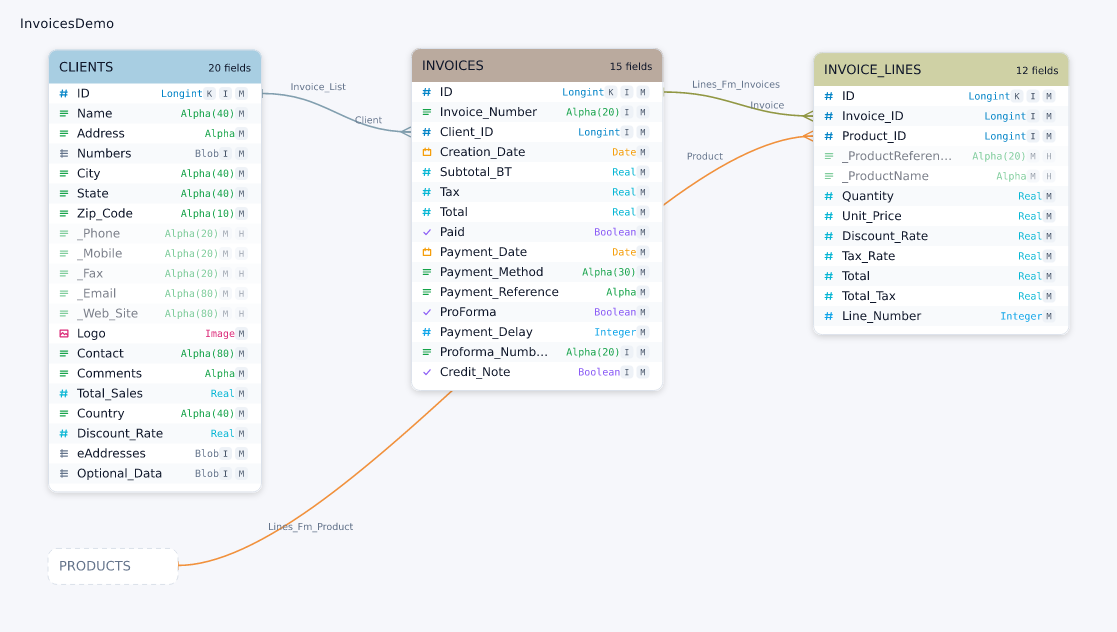
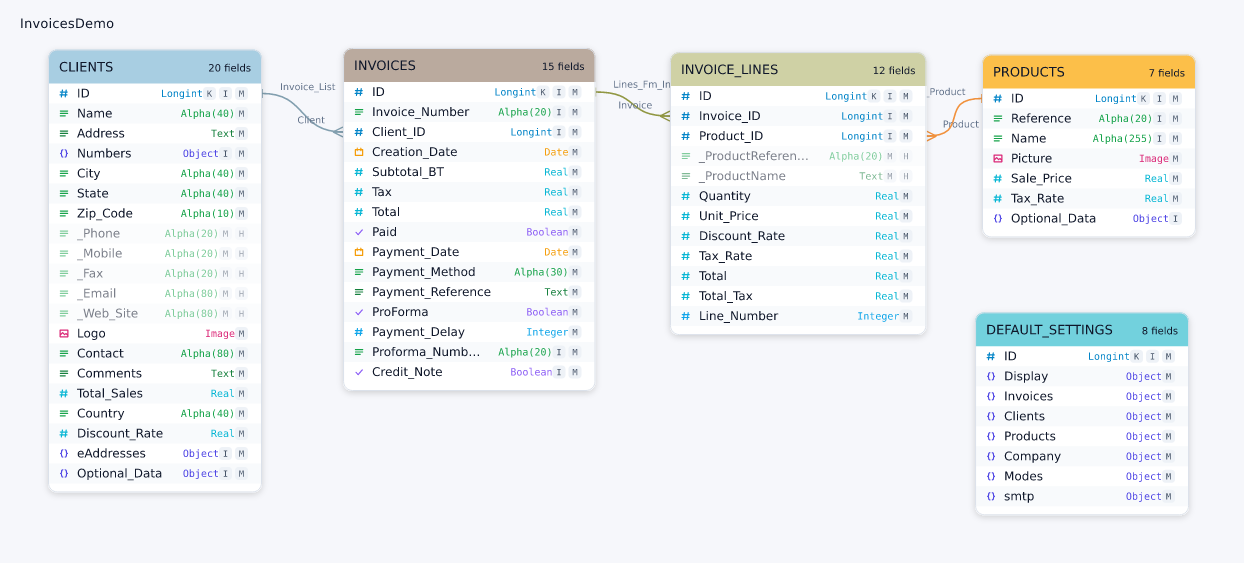
Fix field type names: Object was shown as Blob, Text as Alpha (#3)
The type table was built from references/structure-to-sql.xml, which
maps type 21 to BLOB. That transform describes *SQL storage*, not the
type name: an object field is stored as a BLOB (or TEXT with $with_json)
but 4D presents it as Object. The authority for presentation is
references/structure_to_html.xml, which labels 21 as Object.

The same mistake hid a second bug. Codes 10, 14 and 17 are all string
fields and the code alone does not name the type - 4D shows Alpha when
the field carries a length limit and Text when it does not. The table
hardcoded 10 and 14 to Alpha and 17 to Text, so the four unlimited
string fields in the demo catalog (Address, Comments, Payment_Reference,
_ProductName) were labelled Alpha instead of Text.

Type resolution now goes through Field, which canonicalises the code
against limiting_length before looking it up, so the label, colour and
glyph can never disagree. Object gets its own indigo {} glyph rather
than borrowing the Blob stripes.

Adds regression tests asserting both rules against the real reference
catalog; all three fail against the previous table. Regenerates
docs/example.png, which showed the wrong labels, and records the command
that produces it.

diff --git a/tests/integration.rs b/tests/integration.rs
@@ -827,3 +827,66 @@ fn html_ships_the_deep_link_and_minimap_machinery() {
     // Rows must be addressable by field name for `#TABLE.FIELD` to work.
     assert!(html.contains(r#"data-field="Invoice_Number""#));
 }
+
+/// 4D's own `structure_to_html.xml` transform is the authority on how a field
+/// type is *presented*. Type 21 is `Object`; it maps to `BLOB` only in
+/// `structure-to-sql.xml`, which describes SQL storage, not the type name.
+#[test]
+fn object_fields_are_labelled_object_not_blob() {
+    let catalog = invoices();
+    let numbers = catalog
+        .tables
+        .iter()
+        .find(|t| t.name == "CLIENTS")
+        .unwrap()
+        .fields
+        .iter()
+        .find(|f| f.name == "Numbers")
+        .unwrap();
+
+    assert_eq!(numbers.type_code, 21);
+    assert_eq!(numbers.type_label(), "Object");
+
+    // And nowhere in the catalog does a type 21 field claim to be a Blob.
+    let mislabelled: Vec<_> = catalog
+        .tables
+        .iter()
+        .flat_map(|t| &t.fields)
+        .filter(|f| f.type_code == 21 && f.type_label() != "Object")
+        .map(|f| f.name.clone())
+        .collect();
+    assert!(mislabelled.is_empty(), "mislabelled: {mislabelled:?}");
+}
+
+/// Codes 10, 14 and 17 are all "string". 4D shows `Alpha` when the field
+/// carries a length limit and `Text` when it does not, so the code alone is
+/// not enough to name the type.
+#[test]
+fn string_fields_are_alpha_only_when_length_limited() {
+    let catalog = invoices();
+    let clients = catalog.tables.iter().find(|t| t.name == "CLIENTS").unwrap();
+    let field = |name: &str| clients.fields.iter().find(|f| f.name == name).unwrap();
+
+    let limited = field("Name");
+    assert_eq!(limited.type_code, 10);
+    assert_eq!(limited.limiting_length, Some(40));
+    assert_eq!(limited.type_label(), "Alpha");
+
+    let unlimited = field("Address");
+    assert_eq!(unlimited.type_code, 10);
+    assert_eq!(unlimited.limiting_length, None);
+    assert_eq!(unlimited.type_label(), "Text");
+}
+
+/// The text exports carry the same corrected labels as the diagram.
+#[test]
+fn exports_use_the_display_type_names() {
+    let catalog = invoices();
+    let selection = select::select(&catalog, &spec()).unwrap();
+    let mmd = catalog_diagram::export::mermaid(&catalog, &selection, false);
+
+    assert!(mmd.contains("Object Numbers"), "{mmd}");
+    assert!(mmd.contains("Text Address"), "{mmd}");
+    assert!(mmd.contains("Alpha Name"), "{mmd}");
+    assert!(!mmd.contains("Blob Numbers"), "{mmd}");
+}

diff --git a/src/types.rs b/src/types.rs
@@ -24,7 +24,7 @@ pub const TYPES: &[(i64, &str, &str, Glyph)] = &[
     (14, "Alpha", "#16a34a", Glyph::Text),
     (17, "Text", "#15803d", Glyph::Text),
     (18, "Blob", "#64748b", Glyph::Blob),
-    (21, "Blob", "#64748b", Glyph::Blob),
+    (21, "Object", "#4f46e5", Glyph::Object),
 ];
 
 pub const UNKNOWN_COLOR: &str = "#94a3b8";
@@ -38,7 +38,28 @@ pub enum Glyph {
     Text,
     Blob,
     Image,
+    Object,
     Unknown,
+}
+
+/// 4D stores every string field under one of these codes. The *displayed* type
+/// is not implied by the code alone: 4D shows `Alpha` when the field carries a
+/// length limit and `Text` when it does not. See the `$type=10 or $type=14 or
+/// $type=17` branch of `structure_to_html.xml` in `references/`.
+const STRING_CODES: &[i64] = &[10, 14, 17];
+const ALPHA_CODE: i64 = 10;
+const TEXT_CODE: i64 = 17;
+
+/// Collapses a raw code plus its length limit into the code whose row in
+/// [`TYPES`] describes how 4D actually presents the field.
+pub fn canonical_code(code: i64, limiting_length: Option<i64>) -> i64 {
+    if !STRING_CODES.contains(&code) {
+        return code;
+    }
+    match limiting_length {
+        Some(len) if len > 0 => ALPHA_CODE,
+        _ => TEXT_CODE,
+    }
 }
 
 pub fn type_label(code: i64) -> String {
@@ -73,6 +94,33 @@ mod tests {
     fn known_codes_resolve() {
         assert_eq!(type_label(4), "Longint");
         assert_eq!(type_label(17), "Text");
+    }
+
+    #[test]
+    fn object_is_not_a_blob() {
+        // 21 is `Object`. It becomes a BLOB only in the SQL mapping, which
+        // describes storage rather than the type shown to the user.
+        assert_eq!(type_label(21), "Object");
+        assert_eq!(type_glyph(21), Glyph::Object);
+        assert_ne!(type_color(21), type_color(18));
+    }
+
+    #[test]
+    fn string_codes_resolve_by_length_limit() {
+        for code in [10, 14, 17] {
+            assert_eq!(type_label(canonical_code(code, Some(40))), "Alpha");
+            assert_eq!(type_label(canonical_code(code, None)), "Text");
+            // A limit of zero means "no limit", same as the attribute being absent.
+            assert_eq!(type_label(canonical_code(code, Some(0))), "Text");
+        }
+    }
+
+    #[test]
+    fn non_string_codes_ignore_the_length_limit() {
+        for code in [1, 4, 11, 18, 21, 999] {
+            assert_eq!(canonical_code(code, Some(40)), code);
+            assert_eq!(canonical_code(code, None), code);
+        }
     }
 
     #[test]

diff --git a/src/scene.rs b/src/scene.rs
@@ -440,8 +440,8 @@ fn shape_for_table(
                     false,
                 ),
                 type_label: type_text,
-                type_color: types::type_color(field.type_code).to_string(),
-                glyph: glyph_name(field.type_code),
+                type_color: field.type_color().to_string(),
+                glyph: glyph_name(field.type_glyph()),
                 badges,
                 hidden: field.hidden,
                 tip: field.tip.clone(),
@@ -488,8 +488,8 @@ fn badges_for(field: &crate::model::Field) -> Vec<Badge> {
     badges
 }
 
-fn glyph_name(type_code: i64) -> &'static str {
-    match types::type_glyph(type_code) {
+fn glyph_name(glyph: types::Glyph) -> &'static str {
+    match glyph {
         types::Glyph::Boolean => "boolean",
         types::Glyph::Number => "number",
         types::Glyph::Date => "date",
@@ -497,6 +497,7 @@ fn glyph_name(type_code: i64) -> &'static str {
         types::Glyph::Text => "text",
         types::Glyph::Blob => "blob",
         types::Glyph::Image => "image",
+        types::Glyph::Object => "object",
         types::Glyph::Unknown => "unknown",
     }
 }

diff --git a/src/model.rs b/src/model.rs
@@ -80,8 +80,22 @@ pub struct Field {
 }
 
 impl Field {
+    /// The code as 4D presents it, which for string fields depends on whether
+    /// a length limit is set.
+    fn display_code(&self) -> i64 {
+        crate::types::canonical_code(self.type_code, self.limiting_length)
+    }
+
     pub fn type_label(&self) -> String {
-        crate::types::type_label(self.type_code)
+        crate::types::type_label(self.display_code())
+    }
+
+    pub fn type_color(&self) -> &'static str {
+        crate::types::type_color(self.display_code())
+    }
+
+    pub fn type_glyph(&self) -> crate::types::Glyph {
+        crate::types::type_glyph(self.display_code())
     }
 }
 

diff --git a/src/render_svg.rs b/src/render_svg.rs
@@ -531,6 +531,7 @@ fn icon(glyph: &str, x: f64, y: f64, color: &str) -> String {
         "text" => "M1.4 2.6H8.6M1.4 5H8.6M1.4 7.4H6.2",
         "blob" => "M1.6 2.4H8.4M1.6 5H8.4M1.6 7.6H8.4M3 1.2V8.8",
         "image" => "M1.2 1.6H8.8V8.4H1.2ZM1.2 6.6L3.6 4.2L5.6 6.2L7 5L8.8 6.8",
+        "object" => "M3.8 1.4Q2.6 1.4 2.6 3Q2.6 5 1.6 5Q2.6 5 2.6 7Q2.6 8.6 3.8 8.6M6.2 1.4Q7.4 1.4 7.4 3Q7.4 5 8.4 5Q7.4 5 7.4 7Q7.4 8.6 6.2 8.6",
         _ => "M5 1.4A3.6 3.6 0 1 1 4.99 1.4M5 7.6V7.61M3.6 4.1A1.4 1.4 0 1 1 5 5.6V6.2",
     };
     format!(

diff --git a/README.md b/README.md
@@ -11,6 +11,9 @@ standalone SVG, or a PNG.
 - **Deterministic.** The same command on the same input produces byte-identical
   output, so diagrams can be committed and diffed.
 
+<!-- Regenerate with:
+     4d-catalog-diagram references/InvoicesDemo.xml \
+       -f png --layout as-designed --scale 1 -o docs/example.png -->
 ![Example diagram](docs/example.png)
 
 ## Install
@@ -66,6 +69,20 @@ with `<field>` children, plus `<relation>` elements. `references/InvoicesDemo.xm
 in this repository is a complete example. Parsing is permissive — unknown
 elements and attributes are ignored rather than rejected, and UTF-8, UTF-16 and
 legacy single-byte encodings are detected automatically.
+
+### Field types
+
+Type names follow 4D's own presentation rules rather than the raw type code:
+
+- **Type 21 is `Object`**, not `Blob`. 4D's SQL mapping stores an object field
+  as a BLOB, but that is a storage detail — the structure editor shows it as
+  `Object`.
+- **`Alpha` vs `Text` is decided by the length limit, not the code.** Codes 10,
+  14 and 17 are all string fields; a field with a `limiting_length` is shown as
+  `Alpha(n)` and one without is shown as `Text`.
+
+Unrecognised codes degrade to a generic `Type {n}` label instead of failing, so
+a newer catalog still renders.
 
 ## Usage
 
